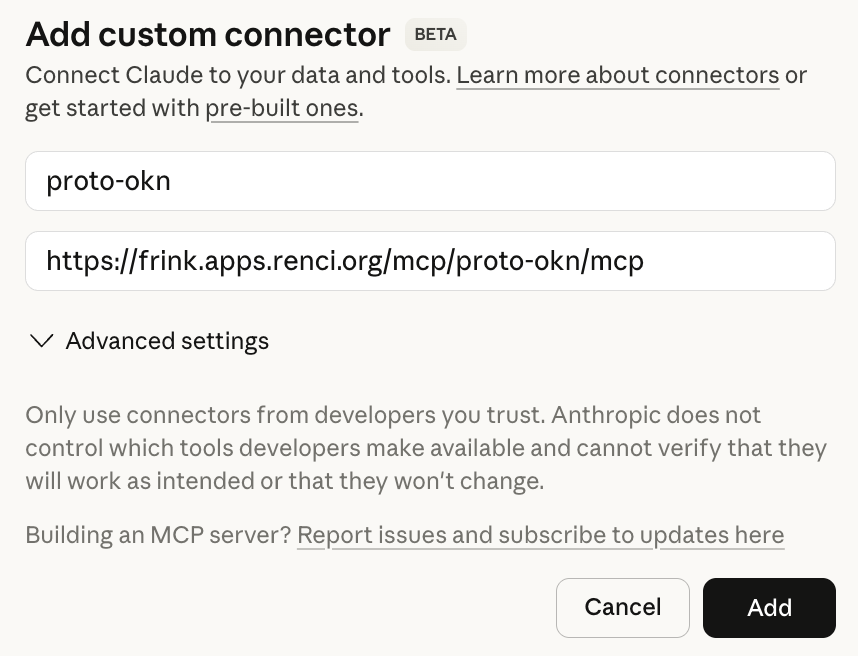
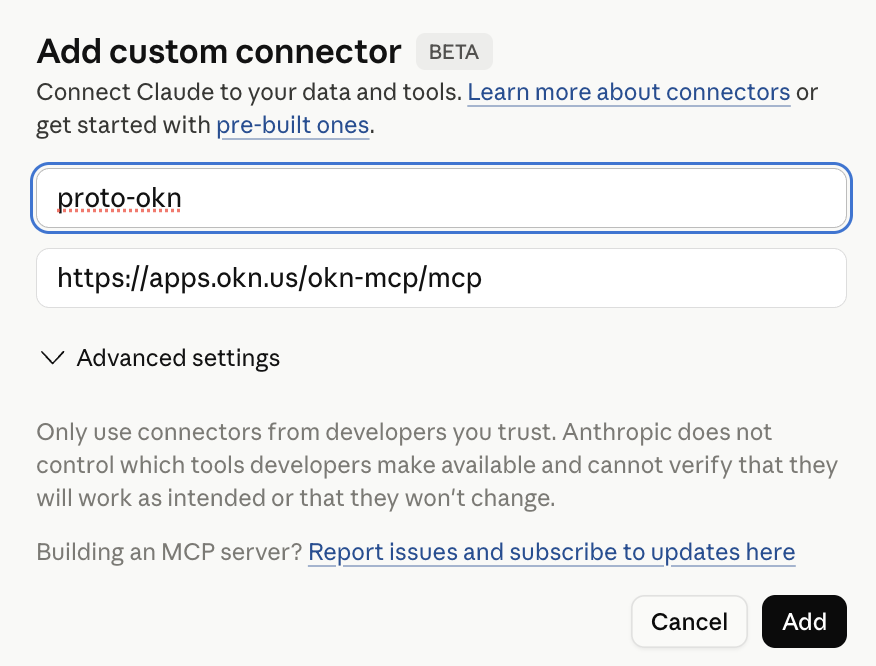
updated mcp url

diff --git a/docs/chatgpt-setup.md b/docs/chatgpt-setup.md
@@ -34,7 +34,7 @@ MCP services only work in developer mode!
      alt="ChatGPT Developer mode"
      width="500">
 
-6. Click ```Create app``` and enter the data shown below (MCP Server URL: https://frink.apps.renci.org/mcp/proto-okn/mcp)
+6. Click ```Create app``` and enter the data shown below (MCP Server URL: https://apps.okn.us/okn-mcp/mcp)
 
 <img src="https://raw.githubusercontent.com/sbl-sdsc/mcp-proto-okn/main/docs/images/chatgpt-proto-okn-app.png"
      alt="ChatGTP add Proto-OKN service"

diff --git a/docs/claude-setup.md b/docs/claude-setup.md
@@ -22,7 +22,7 @@
      alt="Claude connectors"
      width="500">
 
-3. Enter the name ```proto-okn``` and the URL ```https://frink.apps.renci.org/mcp/proto-okn/mcp```
+3. Enter the name ```proto-okn``` and the URL ```https://apps.okn.us/okn-mcp/mcp```
 
 <img src="https://raw.githubusercontent.com/sbl-sdsc/mcp-proto-okn/main/docs/images/claude-add-proto-okn.png"
      alt="Claude add proto-okn"